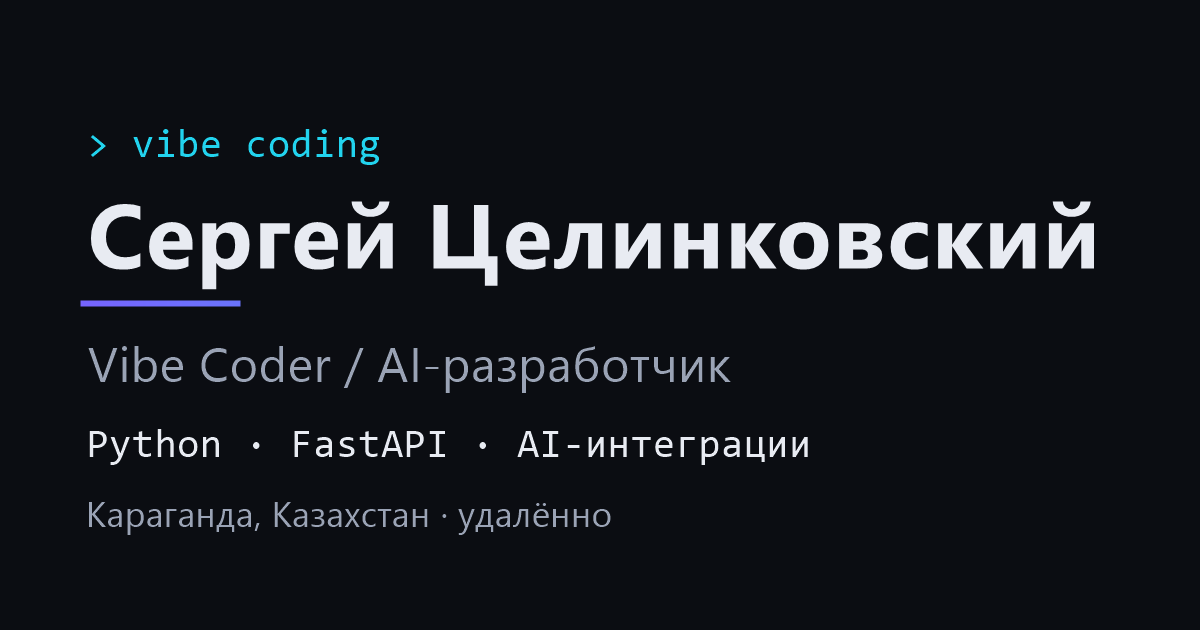
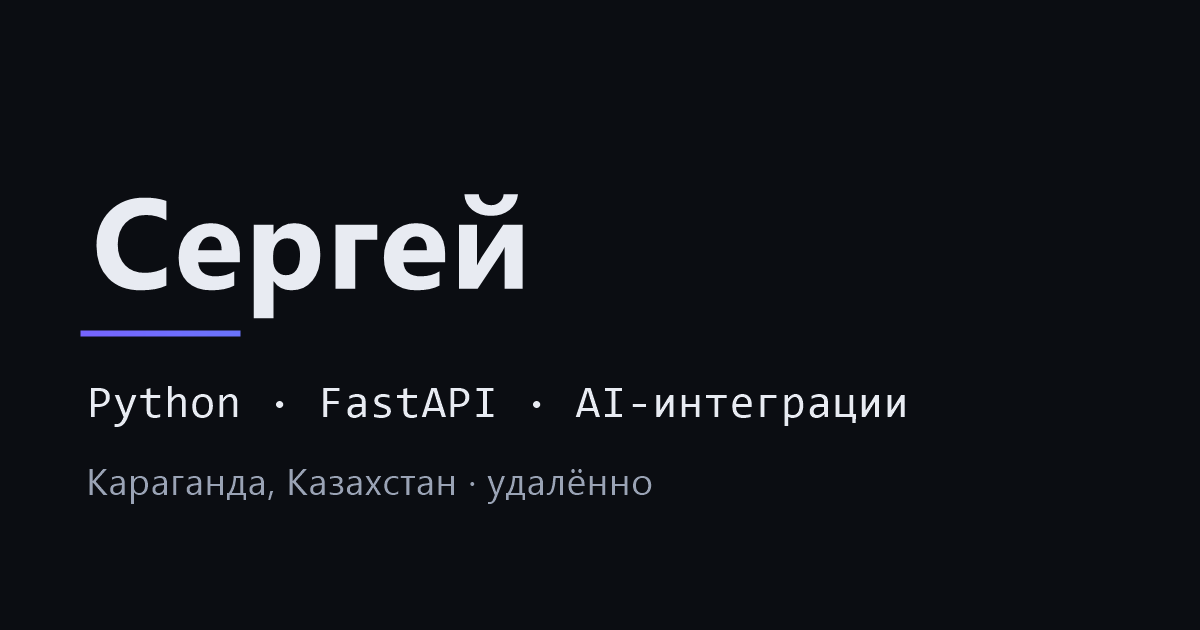
Remove surname and vibe wording, new preview image

diff --git a/index.html b/index.html
@@ -3,15 +3,15 @@
 <head>
 <meta charset="utf-8">
 <meta name="viewport" content="width=device-width, initial-scale=1">
-<title>Сергей Лозовой — Vibe Coder / AI-разработчик | Python FastAPI, Казахстан</title>
-<meta name="description" content="Сергей Лозовой — vibe coder и AI-разработчик из Караганды. Python, FastAPI, интеграции с Gemini и Whisper. Строю рабочие продукты с помощью ИИ. Удалённо по Казахстану и не только.">
-<meta name="keywords" content="vibe coder, AI-разработчик, Python FastAPI, Казахстан, Караганда, удалённая работа, ИИ-интеграции">
-<meta name="author" content="Сергей Лозовой">
+<title>Сергей — Python-разработчик, FastAPI и AI-интеграции</title>
+<meta name="description" content="Сергей — Python-разработчик из Караганды. FastAPI, интеграции с Gemini и Whisper. Строю рабочие продукты с помощью ИИ. Удалённо по Казахстану и не только.">
+<meta name="keywords" content="Python-разработчик, AI-интеграции, Python FastAPI, Казахстан, Караганда, удалённая работа, ИИ-интеграции">
+<meta name="author" content="Сергей">
 <meta name="theme-color" content="#0b0d12">
 
 <meta property="og:type" content="website">
 <meta property="og:locale" content="ru_RU">
-<meta property="og:title" content="Сергей Лозовой — Vibe Coder / AI-разработчик">
+<meta property="og:title" content="Сергей — Python-разработчик, FastAPI и AI-интеграции">
 <meta property="og:description" content="Python · FastAPI · AI-интеграции. Довожу продукты до рабочего состояния с помощью ИИ-инструментов. Флагман: ImpulSpeak.">
 <meta property="og:url" content="https://dmitrich777-osss.github.io/portfolio/">
 <meta property="og:image" content="https://dmitrich777-osss.github.io/portfolio/og-image.png">
@@ -125,9 +125,9 @@ footer{padding:36px 0;text-align:center;color:var(--muted);font-size:.85rem;bord
 
 <header class="hero">
   <div class="wrap">
-    <span class="tag">&gt; vibe coding · AI-assisted development</span>
-    <h1>Сергей <span class="grad">Лозовой</span></h1>
-    <p class="role">Vibe Coder / AI-разработчик</p>
+    <span class="tag">&gt; python</span>
+    <h1><span class="grad">Сергей</span></h1>
+    <p class="role">Python-разработчик / AI-интеграции</p>
     <p class="stack">Python · FastAPI · AI-интеграции</p>
     <p class="loc">Караганда, Казахстан · удалённая работа по всему Казахстану (и не только)</p>
     <p class="slogan">С AI-инструментами рабочий продукт собирается за дни, а не за месяцы классической разработки. Так, в одиночку, я построил двуязычную платформу — английский и казахский курсы с голосовым ИИ-репетитором.</p>
@@ -147,7 +147,7 @@ footer{padding:36px 0;text-align:center;color:var(--muted);font-size:.85rem;bord
     <h2>Обо мне</h2>
     <p>Я учился программированию сам — с нуля, начав с <strong>Termux на телефоне и Replit</strong>. Просто писал код, ломал, разбирался и снова собирал, пока не научился делать вещи, которые работают.</p>
     <p>Затем перешёл от учебных экспериментов к <strong>реальному продукту</strong> — платформе ImpulSpeak с ИИ-репетитором, которую спроектировал и довёл до рабочего состояния.</p>
-    <p>Я работаю в подходе <strong>vibe coding</strong>: активно использую Claude, Claude Code, ChatGPT и другие ИИ-инструменты на каждом этапе разработки. Это не обход — это современный способ быстро получать результат, и именно в нём моя сильная сторона: я знаю, что просить, как проверять и как собирать из этого цельный продукт.</p>
+    <p>Я активно использую Claude, Claude Code, ChatGPT и другие ИИ-инструменты на каждом этапе разработки. Это не обход — это современный способ быстро получать результат, и именно в нём моя сильная сторона: я знаю, что просить, как проверять и как собирать из этого цельный продукт.</p>
     <div class="quote">Не теоретик — довожу продукты до рабочего состояния.</div>
   </div>
 </section>
@@ -234,7 +234,7 @@ footer{padding:36px 0;text-align:center;color:var(--muted);font-size:.85rem;bord
 <section id="ai" class="about">
   <div class="wrap reveal">
     <h2>Как я работаю с ИИ-ассистентом</h2>
-    <p>Продукт, методику и каждую задачу придумываю и ставлю я. Код пишу вместе с Claude Code. Я принимаю результат на слух и на глаз, проверяю на живых устройствах, управляю серверами, расходами и безопасностью.</p>
+    <p>Продукт, методику и каждую задачу придумываю я. Результат принимаю на слух и на глаз, проверяю на живых устройствах, управляю серверами, расходами и безопасностью.</p>
   </div>
 </section>
 
@@ -270,7 +270,7 @@ footer{padding:36px 0;text-align:center;color:var(--muted);font-size:.85rem;bord
 </main>
 
 <footer>
-  <div class="wrap">© 2026 Сергей Лозовой · Караганда, Казахстан · Сайт сделан с помощью ИИ</div>
+  <div class="wrap">© 2026 Сергей · Караганда, Казахстан · Сайт сделан с помощью ИИ</div>
 </footer>
 
 <script>
